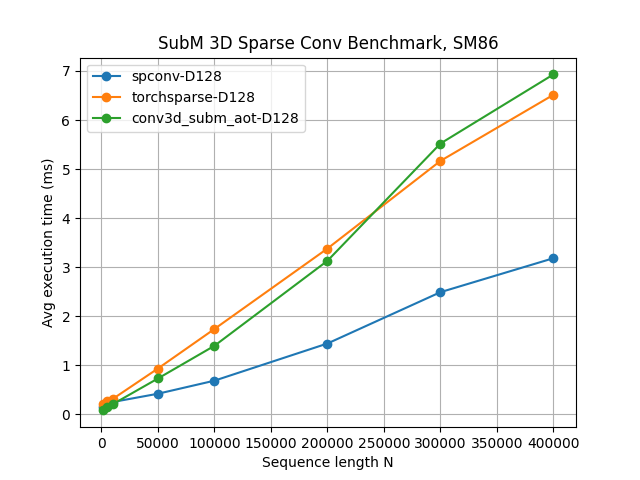
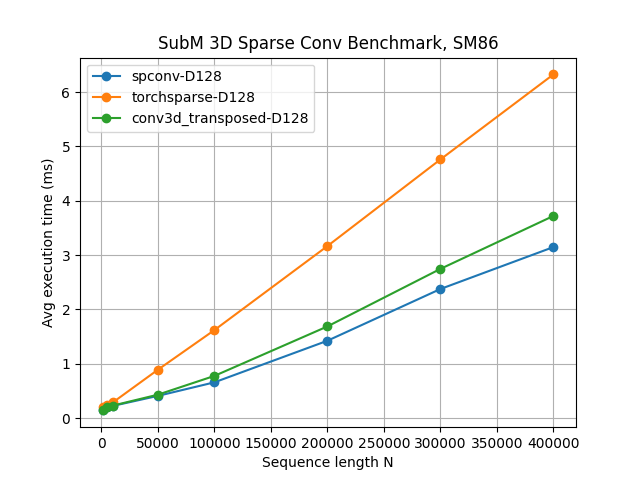
fix memory error

diff --git a/kernel_gen/implicit_gemm_kernel.py b/kernel_gen/implicit_gemm_kernel.py
@@ -5,34 +5,32 @@ import triton.language as tl
 def or_combine(a, b):
     return a | b
 
-
-
 @triton.autotune(
     configs=[
         # good for float16
-        triton.Config({"BLOCK_N": 32, "BLOCK_K": 16, "BLOCK_Dp": 16 , 'PARALLEL_K': 1},  num_warps=2, num_stages=2),
-        triton.Config({"BLOCK_N": 16, "BLOCK_K": 16, "BLOCK_Dp": 16 , 'PARALLEL_K': 1},  num_warps=2, num_stages=2),
-        triton.Config({"BLOCK_N": 16, "BLOCK_K": 32, "BLOCK_Dp": 64 , 'PARALLEL_K': 1},  num_warps=2, num_stages=2),
-        triton.Config({"BLOCK_N": 16, "BLOCK_K": 32, "BLOCK_Dp": 64 , 'PARALLEL_K': 1},  num_warps=4, num_stages=2),
-        triton.Config({"BLOCK_N": 32, "BLOCK_K": 32, "BLOCK_Dp": 16 , 'PARALLEL_K': 1},  num_warps=2, num_stages=2),
-        triton.Config({"BLOCK_N": 16, "BLOCK_K": 32, "BLOCK_Dp": 128, 'PARALLEL_K': 1}, num_warps=4,  num_stages=2),
-        triton.Config({"BLOCK_N": 16, "BLOCK_K": 32, "BLOCK_Dp": 128, 'PARALLEL_K': 1}, num_warps=8,  num_stages=2),
-        triton.Config({"BLOCK_N": 128, "BLOCK_K": 32, "BLOCK_Dp": 32, 'PARALLEL_K': 1}, num_warps=4,  num_stages=2),
-        triton.Config({"BLOCK_N": 128, "BLOCK_K": 32, "BLOCK_Dp": 32, 'PARALLEL_K': 1}, num_warps=8,  num_stages=2),
-        triton.Config({"BLOCK_N": 16, "BLOCK_K": 64, "BLOCK_Dp": 64 , 'PARALLEL_K': 1},  num_warps=4, num_stages=2),
-        triton.Config({"BLOCK_N": 16, "BLOCK_K": 32, "BLOCK_Dp": 32 , 'PARALLEL_K': 1},  num_warps=2, num_stages=2),
-        triton.Config({"BLOCK_N": 32, "BLOCK_K": 16, "BLOCK_Dp": 32 , 'PARALLEL_K': 1},  num_warps=2, num_stages=2),
-        triton.Config({"BLOCK_N": 16, "BLOCK_K": 128, "BLOCK_Dp": 16 , 'PARALLEL_K': 1},  num_warps=2, num_stages=2),
-        triton.Config({"BLOCK_N": 16, "BLOCK_K": 128, "BLOCK_Dp": 16 , 'PARALLEL_K': 1},  num_warps=4, num_stages=2),
-        triton.Config({"BLOCK_N": 16, "BLOCK_K": 128, "BLOCK_Dp": 32 , 'PARALLEL_K': 1},  num_warps=4, num_stages=2),
-        triton.Config({"BLOCK_N": 16, "BLOCK_K": 128, "BLOCK_Dp": 32 , 'PARALLEL_K': 1},  num_warps=8, num_stages=2),
+        triton.Config({"BLOCK_N": 32, "BLOCK_K": 16, "BLOCK_Dp": 16, "PARALLEL_K": 1}, num_warps=2, num_stages=2),
+        triton.Config({"BLOCK_N": 16, "BLOCK_K": 16, "BLOCK_Dp": 16, "PARALLEL_K": 1}, num_warps=2, num_stages=2),
+        triton.Config({"BLOCK_N": 16, "BLOCK_K": 32, "BLOCK_Dp": 64, "PARALLEL_K": 1}, num_warps=2, num_stages=2),
+        triton.Config({"BLOCK_N": 16, "BLOCK_K": 32, "BLOCK_Dp": 64, "PARALLEL_K": 1}, num_warps=4, num_stages=2),
+        triton.Config({"BLOCK_N": 32, "BLOCK_K": 32, "BLOCK_Dp": 16, "PARALLEL_K": 1}, num_warps=2, num_stages=2),
+        triton.Config({"BLOCK_N": 16, "BLOCK_K": 32, "BLOCK_Dp": 128, "PARALLEL_K": 1}, num_warps=4, num_stages=2),
+        triton.Config({"BLOCK_N": 16, "BLOCK_K": 32, "BLOCK_Dp": 128, "PARALLEL_K": 1}, num_warps=8, num_stages=2),
+        triton.Config({"BLOCK_N": 128, "BLOCK_K": 32, "BLOCK_Dp": 32, "PARALLEL_K": 1}, num_warps=4, num_stages=2),
+        triton.Config({"BLOCK_N": 128, "BLOCK_K": 32, "BLOCK_Dp": 32, "PARALLEL_K": 1}, num_warps=8, num_stages=2),
+        triton.Config({"BLOCK_N": 16, "BLOCK_K": 64, "BLOCK_Dp": 64, "PARALLEL_K": 1}, num_warps=4, num_stages=2),
+        triton.Config({"BLOCK_N": 16, "BLOCK_K": 32, "BLOCK_Dp": 32, "PARALLEL_K": 1}, num_warps=2, num_stages=2),
+        triton.Config({"BLOCK_N": 32, "BLOCK_K": 16, "BLOCK_Dp": 32, "PARALLEL_K": 1}, num_warps=2, num_stages=2),
+        triton.Config({"BLOCK_N": 16, "BLOCK_K": 128, "BLOCK_Dp": 16, "PARALLEL_K": 1}, num_warps=2, num_stages=2),
+        triton.Config({"BLOCK_N": 16, "BLOCK_K": 128, "BLOCK_Dp": 16, "PARALLEL_K": 1}, num_warps=4, num_stages=2),
+        triton.Config({"BLOCK_N": 16, "BLOCK_K": 128, "BLOCK_Dp": 32, "PARALLEL_K": 1}, num_warps=4, num_stages=2),
+        triton.Config({"BLOCK_N": 16, "BLOCK_K": 128, "BLOCK_Dp": 32, "PARALLEL_K": 1}, num_warps=8, num_stages=2),
     ],
     key=["N", "N_prime", "K", "D", "D_prime", "acc_dtype"],
 )
 @triton.jit
 def implicit_conv3d_kernel(
     features,  # [N, D]
-    indices,  # [K**3, N']
+    indices,  # [N', K**3]
     weights,  # [K**3, D, D']
     output,  # [N', D']
     N,
@@ -43,7 +41,7 @@ def implicit_conv3d_kernel(
     BLOCK_N: tl.constexpr,  # tile size for N
     BLOCK_K: tl.constexpr,  # tile size for K
     BLOCK_Dp: tl.constexpr,  # tile size for D
-    PARALLEL_K: tl.constexpr, # whether to parallelize over K
+    PARALLEL_K: tl.constexpr,  # whether to parallelize over K
     acc_dtype: tl.constexpr,
 ):
     pid = tl.program_id(axis=0) // PARALLEL_K
@@ -55,12 +53,12 @@ def implicit_conv3d_kernel(
 
     stride_k = K * K * K
 
-    ind_ptr = indices + (tl.arange(0, BLOCK_N) + pid_n * BLOCK_N)
+    ind_ptr = indices + (tl.arange(0, BLOCK_N) + pid_n * BLOCK_N) * stride_k
     acc = tl.zeros((BLOCK_N, BLOCK_Dp), dtype=acc_dtype)
     for k_it in range(pid_k, stride_k, PARALLEL_K):
         k = k_it
         # [BLOCK_N]
-        inds = tl.load(ind_ptr + k * N_prime, mask=(tl.arange(0, BLOCK_N) + pid_n * BLOCK_N) < N_prime, other=-1)
+        inds = tl.load(ind_ptr + k, mask=(tl.arange(0, BLOCK_N) + pid_n * BLOCK_N) < N_prime, other=-1)
         # tl.device_print("inds", inds)
         if tl.reduce((0 <= inds) & (inds < N), 0, or_combine):
             for ki in range(tl.cdiv(D, BLOCK_K)):
@@ -98,6 +96,7 @@ def implicit_conv3d_kernel(
             acc.to(out_ptr.dtype.element_ty),
             out_mask,
         )
+
 
 @triton.autotune(
     configs=[
@@ -261,7 +260,7 @@ def implicit_conv3d_kernel_T(
         + tl.arange(0, BLOCK_Dp)[None, :]
         + pid_dp * BLOCK_Dp
     )
-    out_mask = (offsets_n[:, None] < N_prime) & (
+    out_mask = ((offsets_n[:, None] < N_prime) & (offsets_n[:, None] >= 0)) & (
         tl.arange(0, BLOCK_Dp)[None, :] + pid_dp * BLOCK_Dp < D_prime
     )
     if PARALLEL_K == 1:

diff --git a/bench.py b/bench.py
@@ -28,22 +28,13 @@ except ImportError:
 
 import ops.conv3d_implicit_gemm
 import ops.idx_gen
+from kernel_gen.utils import get_voxel_coords
 
 def generate_random_coords(N, max_coord=50, batch_size=2, device='cuda'):
     # batch indices [0, batch_size)
     batch = torch.randint(0, batch_size, (N, 1), device=device)
     xyz = torch.randint(0, max_coord, (N, 3), device=device)
     return torch.cat([batch, xyz], dim=1).int()
-
-
-def get_voxel_coords(max_seq: int, device='cuda'):
-    coords = []
-    for f in glob.glob('example_pts/*.pt'):
-        data = torch.load(f, map_location=device)
-        coords.append(data)
-
-    coords = torch.cat(coords, dim=0)
-    return coords[:max_seq].int()
 
 class ImplBase:
     name = 'base'
@@ -102,32 +93,51 @@ class Conv3DSubmAot(ImplBase):
             feats, indices, self.weight, self.kernel_size
         )
 
+from kernel_gen.triton_implicit_gemm import conv3d_implicit_gemm_T
+class Conv3dTransposed(ImplBase):
+    name = 'conv3d_transposed'
+
+    def __init__(self, in_channels, out_channels, kernel_size=3):
+        self.weight = torch.nn.Parameter(
+            torch.randn(kernel_size**3, in_channels, out_channels, device='cuda', dtype=torch.float16)
+        )
+        self.kernel_size = kernel_size
+
+    def forward(self, feats, coords, spatial_range):
+        # coords: [N, 4] where last dimension is (x, y, z, batch_id)
+        # feats: [N, D]
+        indices = ops.idx_gen.gen_conv3d_subm_indices_v2(coords, self.kernel_size)
+        D = feats.shape[1]
+        sort = D >= 128
+        return conv3d_implicit_gemm_T(
+            feats, indices, self.weight, self.kernel_size, sort=sort)
+
 
 import ops.idx_gen
-from triton_spconv import Conv3DSubmModule
+# from triton_spconv import Conv3DSubmModule
 import pandas as pd
 from tabulate import tabulate
-class ImplicitGemmAccf32(ImplBase):
-    name = 'implicit_gemm_accf32'
+# class ImplicitGemmAccf32(ImplBase):
+#     name = 'implicit_gemm_accf32'
 
-    def __init__(self, in_channels, out_channels, kernel_size=3):
-        self.layer = Conv3DSubmModule(kernel_size, in_channels, out_channels, acc_dtype=tl.float32).cuda()
+#     def __init__(self, in_channels, out_channels, kernel_size=3):
+#         self.layer = Conv3DSubmModule(kernel_size, in_channels, out_channels, acc_dtype=tl.float32).cuda()
 
-    def forward(self, feats, coords, spatial_range):
-        # coords: [N, 4] where last dimension is (x, y, z, batch_id)
-        # feats: [N, D]
-        return self.layer(feats, coords)
+#     def forward(self, feats, coords, spatial_range):
+#         # coords: [N, 4] where last dimension is (x, y, z, batch_id)
+#         # feats: [N, D]
+#         return self.layer(feats, coords)
     
-class ImplicitGemmAccf16(ImplBase):
-    name = 'implicit_gemm_accf16'
+# class ImplicitGemmAccf16(ImplBase):
+#     name = 'implicit_gemm_accf16'
 
-    def __init__(self, in_channels, out_channels, kernel_size=3):
-        self.layer = Conv3DSubmModule(kernel_size, in_channels, out_channels, acc_dtype=tl.float16).cuda()
+#     def __init__(self, in_channels, out_channels, kernel_size=3):
+#         self.layer = Conv3DSubmModule(kernel_size, in_channels, out_channels, acc_dtype=tl.float16).cuda()
 
-    def forward(self, feats, coords, spatial_range):
-        # coords: [N, 4] where last dimension is (x, y, z, batch_id)
-        # feats: [N, D]
-        return self.layer(feats, coords)
+#     def forward(self, feats, coords, spatial_range):
+#         # coords: [N, 4] where last dimension is (x, y, z, batch_id)
+#         # feats: [N, D]
+#         return self.layer(feats, coords)
     
 
 class NaiveConv3D(ImplBase):
@@ -206,7 +216,7 @@ def main():
     args = parser.parse_args()
 
     # list of implementations
-    implementations = [SpconvSubM, TorchsparseSubM, Conv3DSubmAot]
+    implementations = [SpconvSubM, TorchsparseSubM, Conv3dTransposed]
 
     all_results = {}
     for impl in implementations:

diff --git a/test_triton_implicit_gemm.py b/test_triton_implicit_gemm.py
@@ -140,12 +140,15 @@ def test_triton_jit_kernels_conv3d_subm(coords, dim_in, dim_out, kernel_size):
     weights = torch.randn(kernel_size ** 3, dim_in, dim_out, device="cuda", dtype=torch.float16) / dim_in**0.5
     indices = ops.idx_gen.gen_conv3d_subm_indices(coords, kernel_size)
     indices_T = ops.idx_gen.gen_conv3d_subm_indices_v2(coords, kernel_size)
-
     assert (indices == indices_T.T).all()
+    N = indices_T.shape[1]
+    indices_T_ = torch.empty([indices_T.shape[0], N + 1000], device=indices_T.device, dtype=indices_T.dtype)
+    indices_T_[:, :N] = indices.T
+    indices_T = indices_T_.narrow(1, 0, N)
 
+    out_ref = reference_conv3d_subm(feats, indices, weights, kernel_size)
     out_triton = conv3d_implicit_gemm(feats, indices, weights, kernel_size)
     out_triton_T = conv3d_implicit_gemm_T(feats, indices_T, weights, kernel_size)
-    out_ref = reference_conv3d_subm(feats, indices, weights, kernel_size)
 
     if not torch.allclose(out_triton, out_ref, atol=1e-1, rtol=1e-3):
         diffs = (out_triton - out_ref).abs()
@@ -153,6 +156,8 @@ def test_triton_jit_kernels_conv3d_subm(coords, dim_in, dim_out, kernel_size):
         print("Triton Jit. Outputs do not match!")
         print(out_triton)
         print(out_ref)
+        print(out_triton[-1])
+        print(indices[-1])
     
     if not torch.allclose(out_triton_T, out_ref, atol=1e-1, rtol=1e-3):
         diffs = (out_triton_T - out_ref).abs()
@@ -160,6 +165,8 @@ def test_triton_jit_kernels_conv3d_subm(coords, dim_in, dim_out, kernel_size):
         print("Triton Jit T. Outputs do not match!")
         print(out_triton_T)
         print(out_ref)
+        print(out_triton_T[-1])
+        print(indices_T[:, -1])
 
 def test():
     idx = get_voxel_coords(10000, device='cuda')
@@ -178,7 +185,7 @@ def test():
     # test_backwards(idx, 64, 64, 3)
 
     test_triton_jit_kernels_conv3d_subm(idx, 16, 16, 3)
-    # test_triton_jit_kernels_conv3d_subm(idx, 64, 64, 3)
+    test_triton_jit_kernels_conv3d_subm(idx, 64, 64, 3)
 
 test()
 

diff --git a/kernel_gen/triton_implicit_gemm.py b/kernel_gen/triton_implicit_gemm.py
@@ -8,7 +8,7 @@ import triton.language as tl
 def conv3d_implicit_gemm(feats: torch.Tensor, indices: torch.Tensor, weights: torch.Tensor, kernel_size: int, acc_dtype=tl.float32):
     N, D = feats.shape
     N_prime, K3 = indices.shape
-    out = torch.empty((N_prime, weights.shape[2]), device=feats.device, dtype=feats.dtype)
+    out = torch.zeros((N_prime, weights.shape[2]), device=feats.device, dtype=feats.dtype)
     grid = lambda meta: (cdiv(N_prime, meta["BLOCK_N"]) * cdiv(meta["D_prime"], meta["BLOCK_Dp"]) * meta['PARALLEL_K'],)
     implicit_conv3d_kernel[grid](
         feats,  # [N, D]
@@ -70,6 +70,7 @@ def conv3d_implicit_gemm_T(
     else:
         inv = None
     N_prime_stride = indices.stride(0)
+    torch.cuda.synchronize()
     mask_i = torch.empty((NP, K3), device=feats.device, dtype=torch.bool)    
     implicit_gemm_mask_kernel[(NP,)](
         indices,  # [K**3, N']
@@ -80,6 +81,7 @@ def conv3d_implicit_gemm_T(
         BLOCK_N
     )
 
+    torch.cuda.synchronize()
 
     D_Prime = weights.shape[2]
     out = torch.empty((N_prime, D_Prime), device=feats.device, dtype=feats.dtype)
@@ -102,5 +104,6 @@ def conv3d_implicit_gemm_T(
         acc_dtype=acc_dtype,
         sorted=sort
     )
+    torch.cuda.synchronize()
     return out
 
